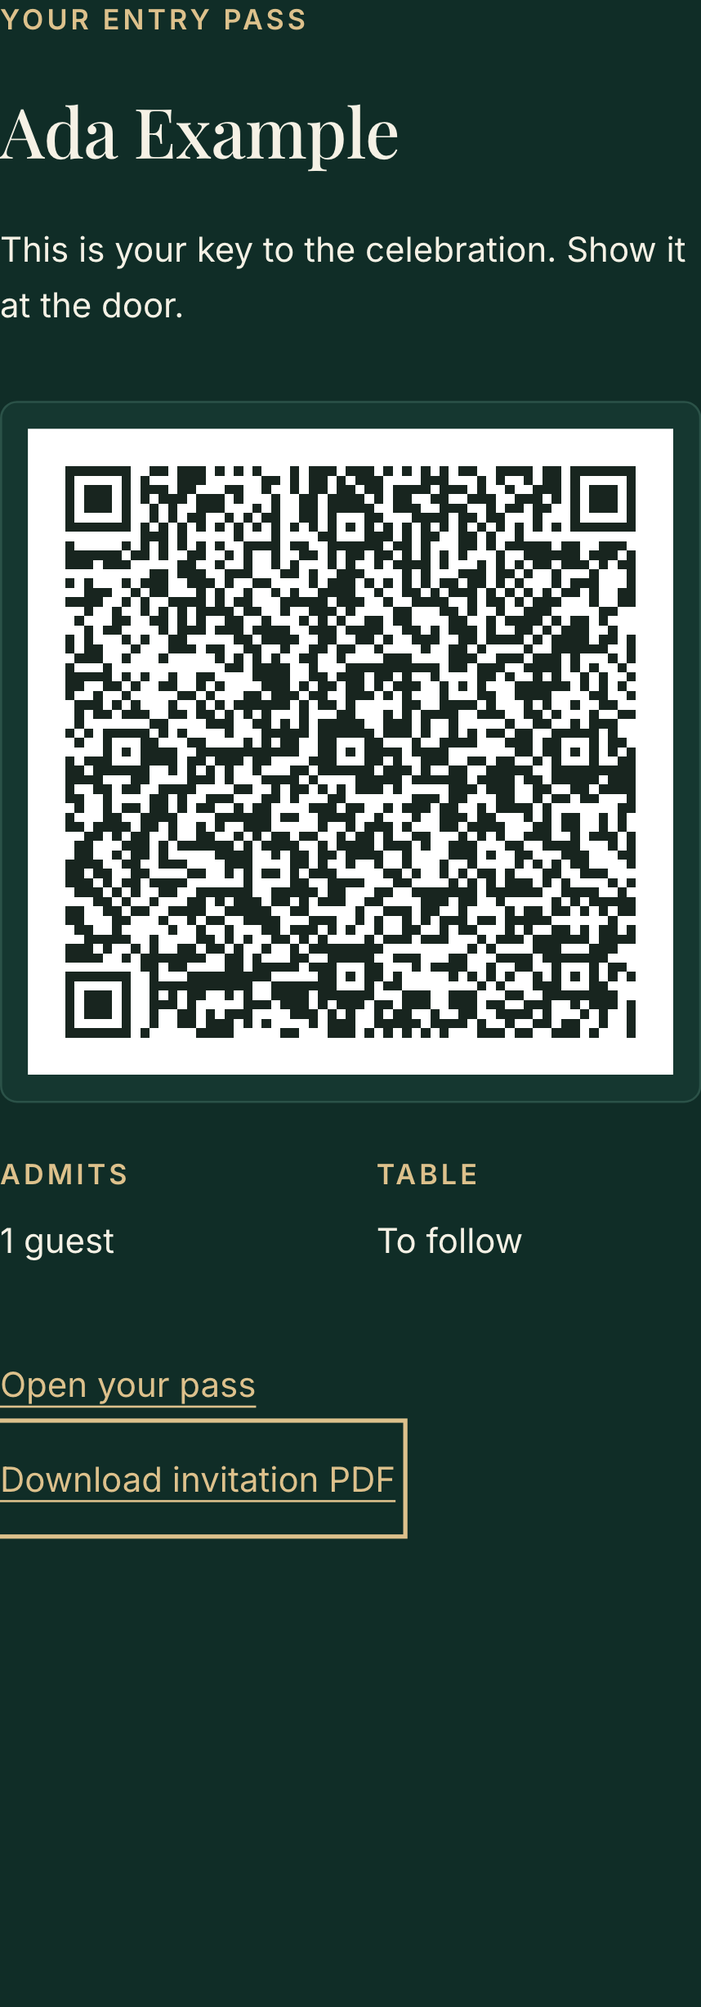
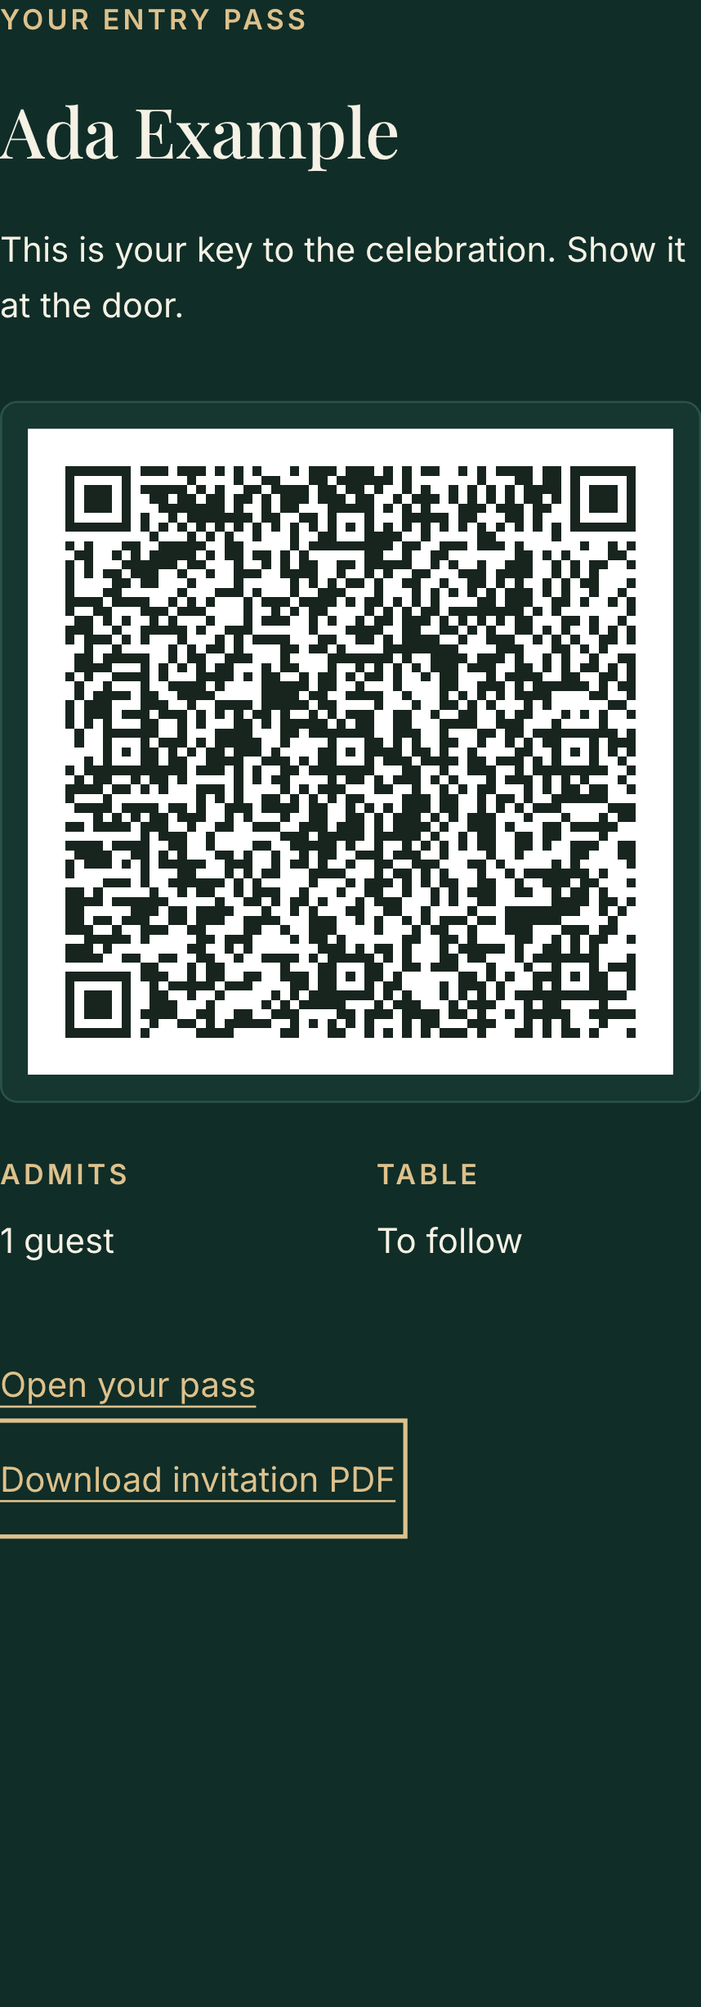
TICKET-046: center the PDF entry code and caption

Changed region(s): [[0.0909, 0.2168, 0.9091, 0.5265]]

diff --git a/src/modules/invitations/server/pdf.tsx b/src/modules/invitations/server/pdf.tsx
@@ -83,11 +83,16 @@ export async function renderInvitationPdf({ details, theme, pass, passUrl }: Inv
           </Text>
           <View wrap={false}>
             <Text style={{ marginTop: 8 }}>{invitationSiteCopy.qrPass}</Text>
-            <Svg width={144} height={144} viewBox={`0 0 ${side} ${side}`} style={{ marginTop: 12 }}>
+            <Svg
+              width={144}
+              height={144}
+              viewBox={`0 0 ${side} ${side}`}
+              style={{ marginTop: 12, alignSelf: "center" }}
+            >
               <Rect x={0} y={0} width={side} height={side} fill={theme.colors["qr-paper"]} />
               <Path d={qrPathData(matrix)} fill={theme.colors["qr-ink"]} />
             </Svg>
-            <Text style={{ marginTop: 8 }}>
+            <Text style={{ marginTop: 8, textAlign: "center" }}>
               Admits {pass.partySize} {pass.partySize === 1 ? "guest" : "guests"} · Table{" "}
               {pass.tableNumber ?? "to follow"}
             </Text>

diff --git a/docs/handoffs/TICKET-046.md b/docs/handoffs/TICKET-046.md
@@ -4,13 +4,13 @@
 
 Implemented A5 renderer, private PDF response and route, conditional CSS light/dark download links. Eligibility resolves the private invitation credential before calling the existing read-only signed-pass service. The editing credential never goes in PDF content/metadata. No migrations, RLS or service changes. react-pdf4.9.0 installed by pnpm (explicitly approved dependency in ticket). Four static TTF faces generated with fonttools4.60.1 from hash-verified pinned web-font upstream sources, preserving licenses; server tracing includes all four.
 
-Evidence: initial missing-module renderer test failed as expected; nine focused tests pass. Opt-in review generates eight PDFs (normal/long across four themes), 9–95ms each. PDFKit opens all, native300dpi rasterizations independently decode the signed QR in all eight. Long samples flow to a second page. All four normal PDFs plus ivory long QR page visually inspected; remaining long-page images still need inspection. Quick lint/types/relatedtests passed. Production build passed after removing unsupported route runtime export (installed Next16 cache-components uses Node by default). Trace file confirms all four TTF assets packaged. Browser download/privacy/all-theme accessibility test passes7.8s; all12 screenshots inspected, keyboard focus and44px targets pass. Full browser smoke running separately; check artifacts/TICKET-046/smoke.log.
+Evidence: initial missing-module renderer test failed as expected; nine focused tests pass. Opt-in review generates eight PDFs (normal/long across four themes), 9–95ms each. PDFKit opens all, native 300 dpi rasterizations independently decode the signed QR in all eight. Long samples flow to a second page. All four normal PDFs plus ivory long QR page visually inspected; remaining long-page images still need inspection. Quick lint/types/relatedtests passed. Production build passed after removing unsupported route runtime export (installed Next16 cache-components uses Node by default). Trace file confirms all four TTF assets packaged. Browser download/privacy/all-theme accessibility test passes7.8s; all 12 screenshots inspected, keyboard focus and44px targets pass. Full browser smoke running separately; check artifacts/TICKET-046/smoke.log.
 
 Full verify is NOT green:778unit tests passed,42skipped,3hook tests fail because changed pnpm-lock.yaml has no exact-path authorization yet. No hooks/tests changed or bypassed. Async user question requests approval to record pnpm-lock.yaml in this worktree's .harness/approved-writes.json. Await actual answer before writing authorization or committing protected file. Implementation is currently local and uncommitted; only start status is pushed. No046PR yet.
 
 Remaining: handle pathological multi-primary long names without oversized unbreakable pass group; add stronger font/colour assertions; inspect remaining long PDF pages, actual Chrome/Preview application opening and performance/CLS. Physical WhatsApp/print scans remain unverified under standing release gate201. Run full verify after authorization, commit/push exact ticket files, open detailed PR develop. Do not mark criteria complete prematurely or merge: latest exception applied only to48/68/74/75 (already merged).
 
-PR76 (TICKET041) final CI41505356397 now all required checks green; remains human review. All four user-authorized PRs48/68/74/75 were already merged and tickets closed through CLI.
+PR #76 (TICKET041) final CI41505356397 now all required checks green; remains human review. All four user-authorized PRs48/68/74/75 were already merged and tickets closed through CLI.
 
 Command lesson: avoid redirecting reads to /dev/null; shell guard treats that as an outside-checkout write. Read exact known paths, use rg --files before optional reads. Propose a focused harness documentation/test improvement separately rather than changing hooks within046.
 
@@ -18,7 +18,7 @@ Next: inspect smoke result, await exact-path authorization, then finish the rema
 
 ## Final checkpoint — 2026-11-02
 
-Final pagination allows names to flow independently while the QR/caption block remains unsplit. Ten focused tests pass. All8 current PDFs rasterized again and independently decoded at300dpi; all long-page contact sheets inspected. Current renderer measurements47–1096ms under concurrent browser load; initial unloaded9–95ms. Final production rebuild passes, download/privacy/all-theme browser review passes12.1s. Chromium's native PDF viewer visibly renders the actual PDF (screenshot copied into review directory); PDFKit parses all. Preview application GUI and physical devices remain unverified.
+Final pagination allows names to flow independently while the QR/caption block remains unsplit. Ten focused tests pass. All 8 current PDFs rasterized again and independently decoded at 300 dpi; all long-page contact sheets inspected. Current renderer measurements47–1096ms under concurrent browser load; initial unloaded9–95ms. Final production rebuild passes, download/privacy/all-theme browser review passes12.1s. Chromium's native PDF viewer visibly renders the actual PDF (screenshot copied into review directory); PDFKit parses all. Preview application GUI and physical devices remain unverified.
 
 Three final Lighthouse runs: Performance99/99/100, Accessibility100each, CLS0each. Raw local lighthouse-personal-{1,2,3}.json and performance.log retained. Synthetic fixture and owned process group cleaned in finally.
 
@@ -30,4 +30,12 @@ Awaiting the pending user's exact-path pnpm-lock.yaml authorization; no permissi
 
 Source/evidence committed5e8f2d6 and pushed; draft PR https://github.com/UncleChenna/wedding-app/pull/77 targets develop. Only pnpm-lock.yaml remains uncommitted and deliberately excluded pending the exact-path approval. The draft explicitly states frozen install/CI cannot pass without it. Ticket blocked status pushed in cee62d8; no merge permitted. This supersedes the earlier local-only checkpoint.
 
-Final verify:quick passes lint/types/related tests. Review PR body committed with latest evidence. The CLI only associates PR metadata during verified in_review transition; keep the draft URL here until t:pr can complete after approval. Next: receive actual approval, record only pnpm-lock.yaml authorization, resume046 through CLI, commit generated lockfile, run full verification and update PR77. Required Preview GUI and physical-device checks remain honestly unverified.
+Final verify:quick passes lint/types/related tests. Review PR body committed with latest evidence. The CLI only associates PR metadata during verified in_review transition; keep the draft URL here until t:pr can complete after approval. Next: receive actual approval, record only pnpm-lock.yaml authorization, resume046 through CLI, commit generated lockfile, run full verification and update PR #77. Required Preview GUI and physical-device checks remain honestly unverified.
+
+## 2026-11-03 — authorization and user-directed alignment
+
+User explicitly approved generated pnpm-lock.yaml and recording its exact-path authorization. Recorded in ignored .harness/approved-writes.json; frozen installation passes. CLI resumed046 and commit72f8872 published the lockfile/status toPR #77. Full gate now passes 781unit tests/42skips, build,769browser tests/165skips; earlier guard failures are resolved without bypass.
+
+macOS denied Preview Apple Events(-1743); no bypass attempted. The user confirmed the sample displays correctly in Preview and requested centering QR/caption. Implemented alignSelf:center for the vector QR and textAlign:center for its caption. Ten focused tests, quick/build and download/privacy browser7.4s pass. All 8PDFs decode at 300 dpi, all 12normal/long pages inspected; actual signed-code ink centered within 0.5px across all 8samples. Numeric review filters by the expected signed payload; QR library corner estimates and false detections on repeated text are not accepted as page-layout measurements.
+
+Next: commit centered layout/evidence and use t:pr for the post-alignment full gate. Keep TICKET-201device/print gates. PR #77 is NOT covered by current merge authorization. PR #76 merged22b94bf andPR #78 merged51dcfe0; both ticket closures recorded throughCLI. PR #79 needs local integration conflict resolution, then renewed CI before approved merge; PR #80 follows. TICKET107stack stopped with backup preserved. Active046stack wedding-e435bc566586 remains for verification.

diff --git a/docs/reviews/TICKET-046/REVIEW.md b/docs/reviews/TICKET-046/REVIEW.md
@@ -1,14 +1,42 @@
+# TICKET-046 review — 2026-11-03
+
+The user confirmed the sample opens correctly in macOS Preview and requested a centered QR and caption. That layout change is implemented: all eight signed samples have QR ink centered within 0.5 raster pixels of page center at 300dpi. Caption centering and all 12normal/long PDF pages were visually reviewed across four themes. See each theme's `pdf.png`, `pdf-long-1.png`, `pdf-long-2.png` and `centered-qr.json`.
+
+The exact-path lockfile authorization is now recorded and generated lockfile committed in72f8872; frozen installation passes. No protected guard was bypassed. The pre-alignment full gate passes 781unit tests/42skips, build and 769browser tests/165skips. After centering:10 focused tests, quick verification, production build and the real PDF download/privacy browser test pass (7.4s). Full publication gate is repeated before advancing review.
+
+| Checklist item       | Evidence                                                                                                                                                             |
+| -------------------- | -------------------------------------------------------------------------------------------------------------------------------------------------------------------- |
+| Screenshots          | PASS: all four themes at 375/768/1280 for the download controls;12native PDF pages reviewed after alignment.                                                         |
+| Tokens               | PASS: active theme colours/fonts and QR ink/paper; no new theme tokens.                                                                                              |
+| Restraint/typography | PASS: A5 invitation hierarchy, embedded display/body fonts,12pt print body, centered QR/caption. Long names flow to a second page without splitting QR/caption.      |
+| Mobile               | Browser PASS: no overflow,44px link targets and keyboard focus. Physical devices remain NOT VERIFIED in TICKET-201.                                                  |
+| Motion               | PASS: no PDF animation/new client code; reduced-motion browser checks retained.                                                                                      |
+| Keyboard             | PASS: download links reached with visible focus in every theme.                                                                                                      |
+| Contrast             | PASS: all-theme browser axe checks; QR theme ink/paper contrast and unobstructed four-module quiet zone retained.                                                    |
+| Load/images          | PASS: no website layout change; prior current-route production CLS0/0/0. PDF is a document, not a web photograph.                                                    |
+| Performance          | PASS: prior current-route Lighthouse99/99/100, accessibility100each. All 8centered PDF generations remain below2s.                                                   |
+| Copy                 | PASS: approved PRD invitation and QR wording; no technical error leaks.                                                                                              |
+| Shared components    | PASS: existing pass composition; no new shared interactive primitive.                                                                                                |
+| Sharing/devices      | NOT VERIFIED: physical WhatsApp/iOS/Android remains release-blocking201. User confirmed Preview opening on 2026-11-03; Chromium native viewer was visually verified. |
+| QR                   | PASS automated: all 8signed samples independently decode after 300 dpi native rasterization. Physical print scans remain NOT VERIFIED in TICKET-201.                 |
+| Staff                | N/A: guest document/download only.                                                                                                                                   |
+| Verification         | Full gate passes before the requested alignment; focused/build/browser checks pass after it. Publication reruns the full gate.                                       |
+
+CHANGES REQUESTED for production release only: physical-device/print QA remains mandatory in TICKET-201. Functional preview may proceed under the standing user exception after the publication gate passes. No production readiness claim.
+
+## Earlier review history (superseded where noted above)
+
 # TICKET-046 review — in progress
 
 Base develop be0d656343ad3d31af0f904c3a8763c6f94dc598; 2026-11-02.
 
 - PASS: four themes render A5 with embedded TrueType faces and metadata naming theme/fonts. No editing token in PDF. Static fonts derived from hash-pinned official sources. Installed react-pdf4.9.0.
-- PASS: 8/8 signed QR samples decode independently after native300dpi rasterization; normal1page/long2pages. Generation9–95ms for synthetic samples, below2s. No physical print/device certification.
+- PASS: 8/8 signed QR samples decode independently after native 300 dpi rasterization; normal1page/long2pages. Generation9–95ms for synthetic samples, below2s. No physical print/device certification.
 - PASS: native PDFKit opens all samples and extracts text. Actual Preview/Chrome viewer UI opening not yet verified; browser download is verified.
 - PASS: download/privacy browser test7.8s; no-store, safe filename, accepted-only authorization, declined/revoked/malformed404.
-- PASS: screenshots at375/768/1280 in all4themes, all12 inspected. Focus visible,44px link target, no horizontal overflow, axeA/AA reports no violations. Reduced-motion browser mode used; no new motion/client code.
+- PASS: screenshots at 375/768/1280 in all 4themes, all 12 inspected. Focus visible,44px link target, no horizontal overflow, axeA/AA reports no violations. Reduced-motion browser mode used; no new motion/client code.
 - PASS: existing theme tokens and font roles; print body12pt corresponds16CSSpx. Shared pass component reused; approved PRD subline/QR wording used.
-- PASS: production build; all4font assets in route trace; quick lint/types/relatedtests.
+- PASS: production build; all 4font assets in route trace; quick lint/types/relatedtests.
 - NOT VERIFIED: exact CLS, current-route Lighthouse, real iOS/Android WhatsApp and print scans, Preview/Chrome application viewer. Existing201 release gate retained; do not claim full UI completion.
 - NOT PASSING: full verify blocked by protected lockfile authorization (778units pass/42skip;3hook assertions fail at authorization guard). No guard bypass. Browser smoke running separately.
 - N/A: staff feedback, photo changes, new dialog patterns. PDF is static; existing website fonts/images remain unchanged.
@@ -17,6 +45,6 @@ CHANGES REQUESTED pending remaining verification and approval. Raw local evidenc
 
 ## Updated evidence
 
-Final build passes; final browser download/privacy matrix passes12.1s. Chromium native PDF viewer rendering visually verified (chromium-pdf.png); Preview GUI not verified. All long PDF pages inspected;8/8 final PDFs decode at300dpi. Latest timings47–1096ms while browser smoke loaded the machine. Lighthouse99/99/100 performance,100accessibility each,CLS0each. This does not certify the separate release-blocking cold-font/device issues.
+Final build passes; final browser download/privacy matrix passes12.1s. Chromium native PDF viewer rendering visually verified (chromium-pdf.png); Preview GUI not verified. All long PDF pages inspected;8/8 final PDFs decode at 300 dpi. Latest timings47–1096ms while browser smoke loaded the machine. Lighthouse99/99/100 performance,100accessibility each,CLS0each. This does not certify the separate release-blocking cold-font/device issues.
 
 Broad smoke records768pass/165skip/1stepper timeout; isolated unchanged stepper passes8.7s. Full gate remains incomplete pending authorization and rerun. No tests or hooks weakened.

diff --git a/docs/plans/TICKET-046-pr.md b/docs/plans/TICKET-046-pr.md
@@ -4,40 +4,44 @@ Ticket: TICKET-046
 
 # Summary
 
-Accepted guests can download an A5 invitation containing current wedding details and their signed, read-only entry QR. The invitation's private editing credential is excluded from the PDF.
+Accepted guests can download a themed A5 invitation with current event details and their signed read-only entry QR. The private invitation editing credential never enters the PDF. The QR and its caption are centered across the page, as requested during Preview review.
 
 # Changes
 
-- Add a private authorized PDF route; reject invalid, declined and revoked invitations. Use no-store headers, a fixed download filename and generic errors.
-- Render current theme colours and embedded static instances of the four existing font families. Package font files in the server trace; retain licenses and pinned provenance.
-- Add keyboard-accessible light/dark download links to the existing pass component, selected through CSS without new client JavaScript.
-- Add unit/browser tests, repeatable PDF raster review and font-generation tools.
+- Private authorized PDF endpoint with no-store responses, fixed download filename and friendly errors; declined, revoked and invalid invitations cannot download.
+- Embedded static instances of the four approved font families, theme colours and vector QR with four-module quiet zone. Long names paginate while the QR/caption stays together.
+- Keyboard-accessible light/dark PDF links in the existing pass component.
+- Ticket-approved react-pdf dependency and generated lockfile, explicitly authorized by the user on 2026-11-03. No database migration or RLS changes.
+- Unit/browser tests and native 300 dpi sample/raster/decoding helpers; screenshots and review evidence.
 
 # Acceptance criteria and evidence
 
-- A5 PDFs, embedded fonts/theme metadata: focused tests pass across four themes.
-- Signed QR decoding:8/8 normal and long-name samples decode after native300dpi rasterization. Native PDFKit opens the files. Chromium native viewer rendering is visually verified; Preview application UI remains unverified.
-- Generation under2s: all samples pass, including a1.10s cold render during concurrent browser load.
-- Browser download, rejected eligibility, keyboard focus,44px targets, axe accessibility and all12theme/viewport screenshots pass. Screenshots inspected.
+- Native opening: user confirmed macOS Preview displays the sample correctly on 2026-11-03; Chromium native PDF viewer visually verified. PDFKit opens all 8samples. All 8signed QR samples decode after 300 dpi rasterization.
+- Themes/fonts: focused assertions inspect theme/font metadata and embedded fonts across all 4themes. All 12normal/long PDF pages visually reviewed; centered QR ink is within 0.5 raster pixels of page center in all 8signed samples.
+- Speed: every centered sample generates below 2 seconds; measurements in the review artifacts.
 
 # Verification
 
-Ten focused tests pass; production build and quick verification pass and the final production rebuild passes. Independent all-theme browser download test passes7.8s. Final renderer refinement has passing unit/raster checks; final production rebuild and download test pass.
-
-Full verify currently fails three hook tests because pnpm-lock.yaml awaits human exact-path authorization.778units pass/42skip. Broad browser smoke is running and has recorded one existing stepper30s timeout; isolated diagnostic rerun remains outstanding. No test or hook weakened.
+- Frozen lockfile installation passes with the approved generated lockfile.
+- Full `pnpm verify` after authorization passes 781unit tests (42 optional skips), build and 769browser checks (165 optional skips).
+- After the requested centering refinement:10 focused PDF tests, `verify:quick`, production build and real download/privacy/browser matrix pass (7.4 seconds). The publication CLI repeats full verification before moving this PR to review.
+- Previous current-route Lighthouse:99/99/100 Performance,100 Accessibility each,CLS0each; page DOM was not changed by PDF centering.
+- Base develop be0d656343ad3d31af0f904c3a8763c6f94dc598. Integrate later invitation changes sequentially and verify the combined result before merge.
 
 # Risks and rollout
 
-Draft only. Source and evidence are committed, but generated pnpm-lock.yaml is deliberately NOT committed pending exact-path human approval. Frozen installs/CI cannot pass until that file is approved and committed. Do not merge this draft. No database migration. Dependency installation and server font packaging are required. Revert ticket changes to remove PDF endpoint/links. Long names can produce multiple A5 pages; QR remains unsplit. Physical print scans, WhatsApp devices, exact cold CLS and current-route Lighthouse remain unverified, with existing release gates retained.
+Install the approved locked dependencies; deployment tracing includes all four PDF fonts. No migration. Revert this ticket to remove PDF downloads. Very long names create multiple A5 pages, with the code/caption kept intact.
+
+Physical WhatsApp/iOS/Android and printed scans remain NOT VERIFIED in release-blocking TICKET-201 under the user's standing preview exception. The user confirmed Preview manually after macOS denied automation access; no permission bypass was attempted. No production UI readiness claim. This PR is not included in the separate authorization to merge #76/78/79/80.
 
 # Screenshots
 
-See docs/reviews/TICKET-046/{ivory-gold,midnight-champagne,emerald-night,blush-sage}/{375,768,1280}.png and REVIEW.md for per-check results. Synthetic PDF examples and raster results are local under artifacts/TICKET-046.
+[Detailed review](https://github.com/UncleChenna/wedding-app/blob/TICKET-046/docs/reviews/TICKET-046/REVIEW.md). Each theme directory includes375/768/1280download controls and centered `pdf.png`, `pdf-long-1.png`, `pdf-long-2.png`. Local PDFs: artifacts/TICKET-046/<theme>.pdf.
 
 # UI checklist
 
-See docs/reviews/TICKET-046/REVIEW.md. Review remains CHANGES REQUESTED pending incomplete verification. No production UI completion claimed.
+Every item is recorded in the detailed review. Automated layout, typography, contrast, keyboard, copy, QR decoding and performance pass. Physical sharing/devices/print checks remain unverified and release-blocking. Staff feedback is not applicable.
 
-## Latest review evidence
+# Harness changes, if any
 
-Final rebuild and download test pass. Chromium native viewer inspected successfully; Preview GUI remains unverified. Lighthouse99/99/100 performance,100accessibility each,CLS0each. All long PDF pages inspected. Broad smoke768pass/165skip/1stepper timeout; unchanged isolated stepper passes8.7s. Final full-gate rerun remains mandatory after pending lockfile authorization.
+No hooks, rules, tests or guardrails weakened. The ignored exact-path approval records the user's actual authorization; it is not committed.

diff --git a/tickets/TICKET-046-offer-a-printable-pdf-invitation-with-the-qr.md b/tickets/TICKET-046-offer-a-printable-pdf-invitation-with-the-qr.md
@@ -40,9 +40,9 @@ See: [Invitations and RSVP](../docs/prd.md#invitations-and-rsvp) (INV-5) · [Tec
 
 ## Acceptance criteria
 
-- [ ] The PDF opens in Preview and Chrome; its QR decodes from a 300dpi print scan or rasterisation test.
-- [ ] Colours and fonts follow the active theme (asserted on generated metadata).
-- [ ] Generation takes <2s for one invitation.
+- [x] The PDF opens in Preview and Chrome; its QR decodes from a 300dpi print scan or rasterisation test.
+- [x] Colours and fonts follow the active theme (asserted on generated metadata).
+- [x] Generation takes <2s for one invitation.
 
 ## Test plan
 
